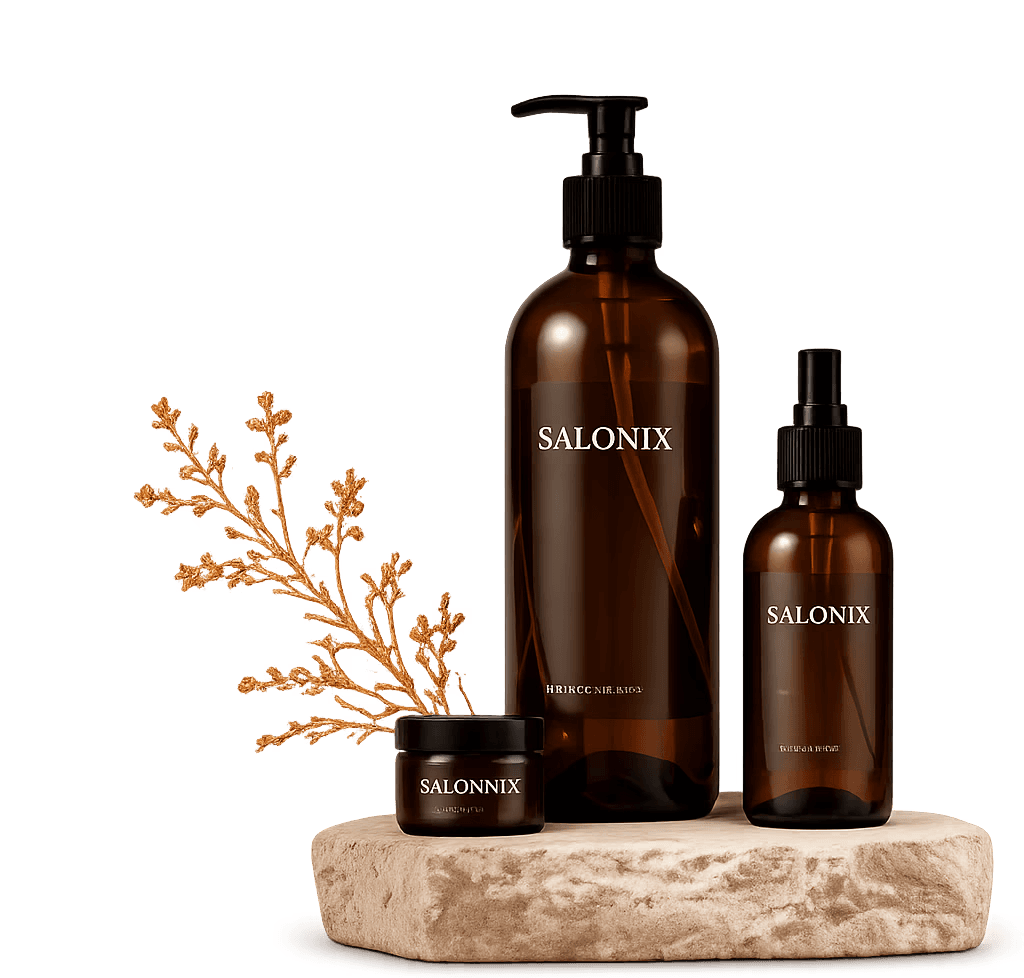
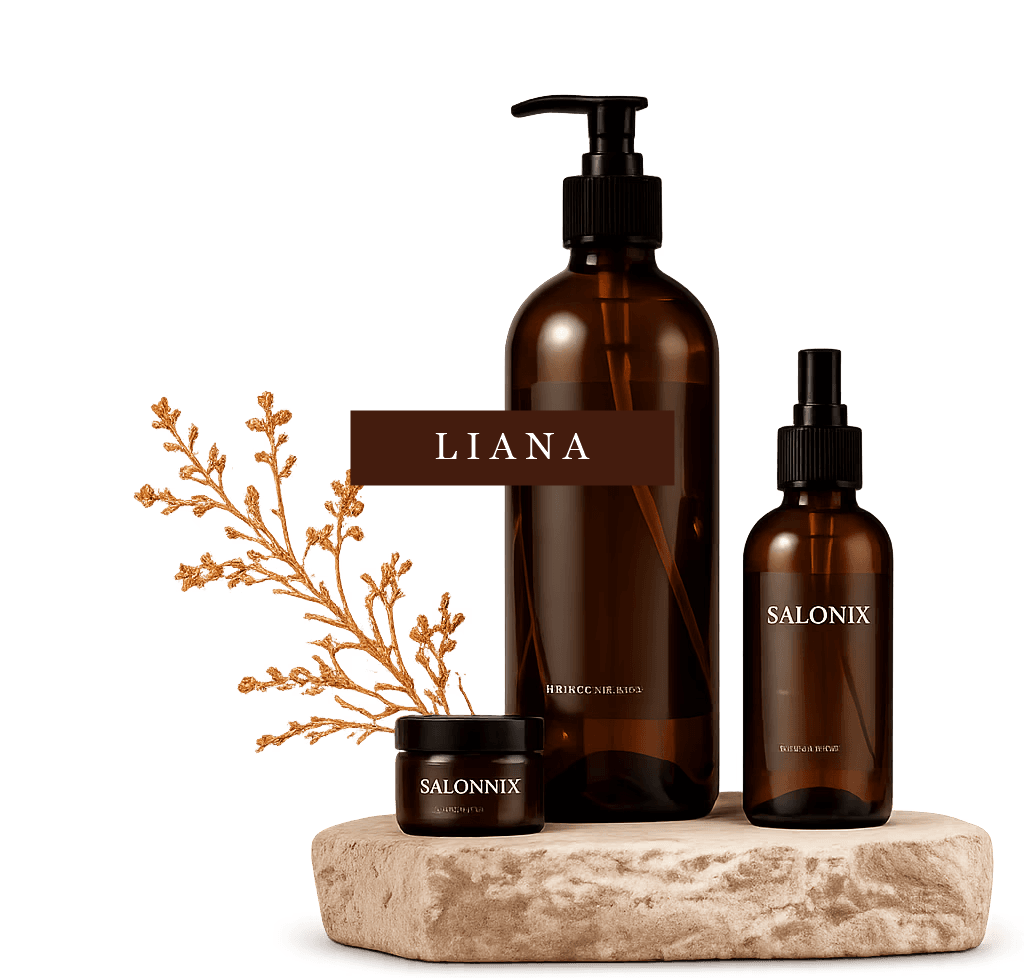
feat: replace product bottle image labels with LIANA branding and remove extra follow box below footer

Changed region(s): [[0.3438, 0.3988, 0.6562, 0.5215]]

diff --git a/public/demos/liana/index.html b/public/demos/liana/index.html
@@ -109,14 +109,7 @@
     
     <!-- End of bodyEnd -->
 
-<a href="https://www.instagram.com/lianahairartistry/" target="_blank" rel="noopener noreferrer"
-    style="display:inline-flex;align-items:center;gap:10px;background:#48120e;color:#fff;padding:14px 34px;border-radius:100px;text-decoration:none;font-weight:700;font-size:15px;transition:background 0.2s ease,transform 0.2s ease;"
-    onmouseover="this.style.background='#b82020';this.style.transform='translateY(-2px)'"
-    onmouseout="this.style.background='#48120e';this.style.transform='translateY(0)'">
-    <svg width="18" height="18" viewBox="0 0 24 24" fill="none" stroke="currentColor" stroke-width="2" stroke-linecap="round" stroke-linejoin="round"><rect x="2" y="2" width="20" height="20" rx="5" ry="5"></rect><path d="M16 11.37A4 4 0 1 1 12.63 8 4 4 0 0 1 16 11.37z"></path><line x1="17.5" y1="6.5" x2="17.51" y2="6.5"></line></svg>
-    Follow @lianahairartistry
-  </a>
-</div>
+
 
 
 
